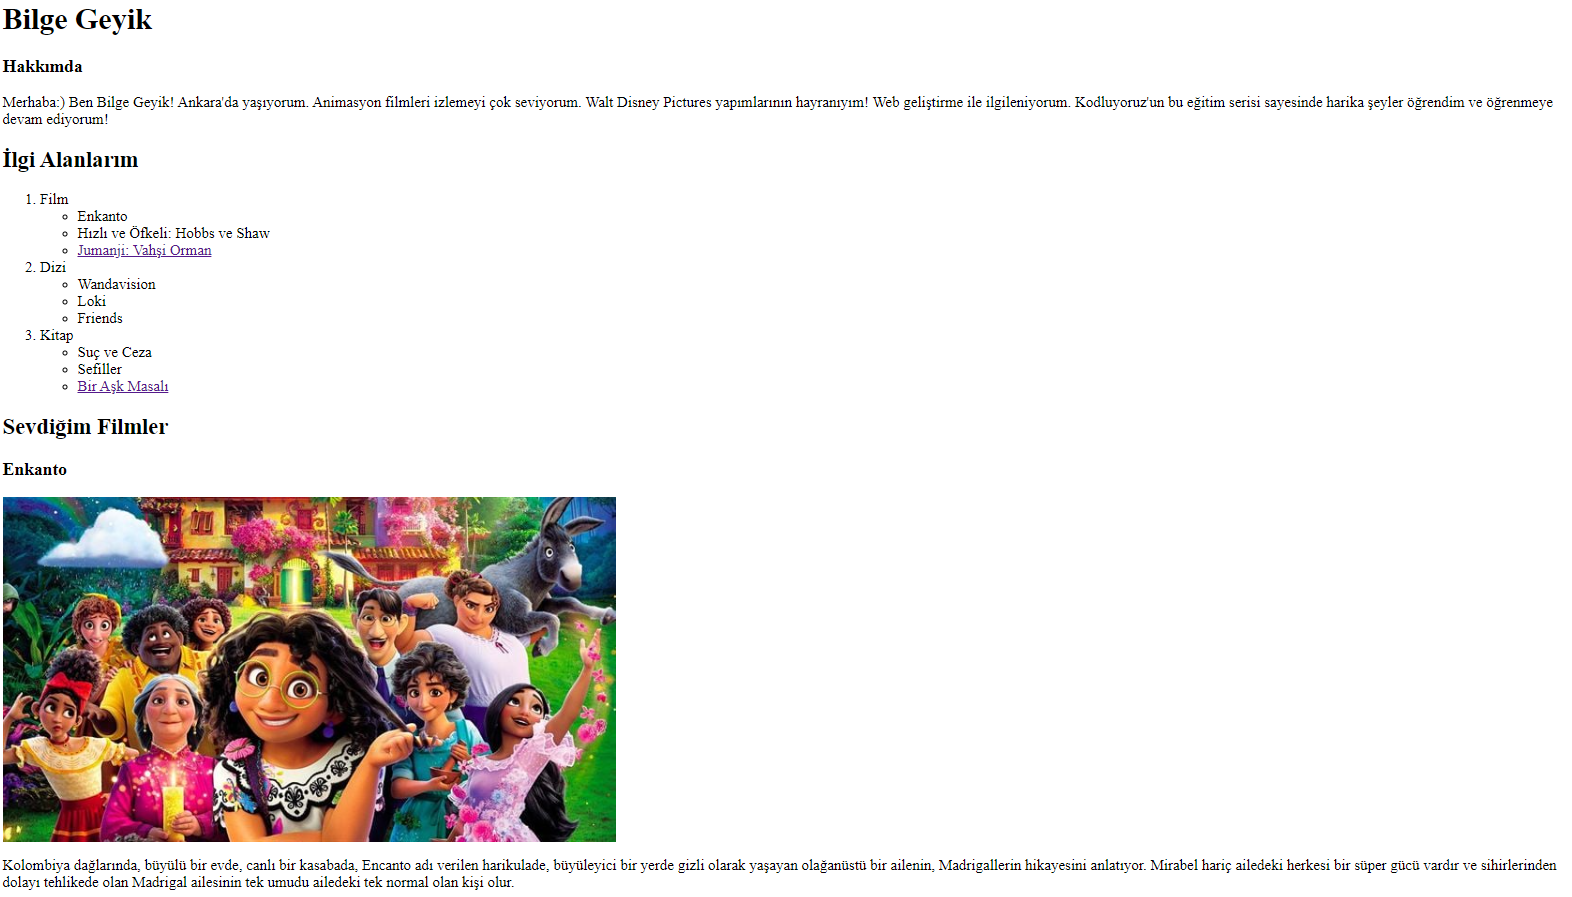
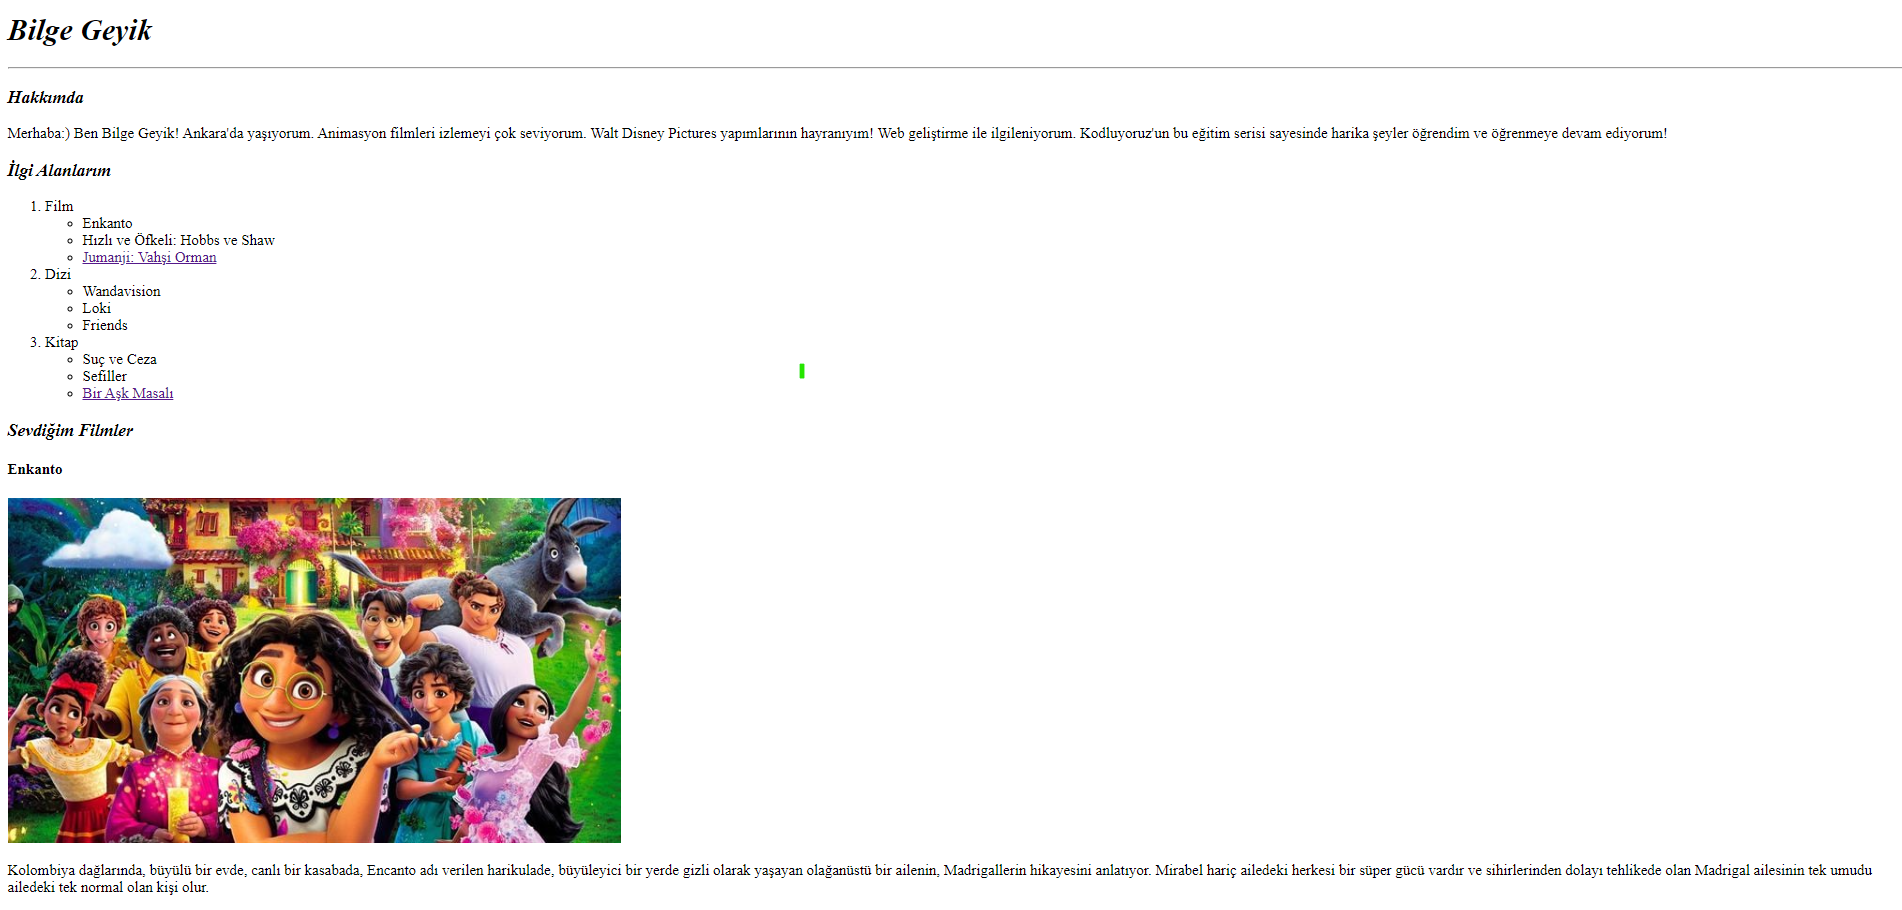
added block and inline in index.html for hw2

Changed region(s): [[0.0, 0.0, 0.9975, 0.9989]]

diff --git a/index.html b/index.html
@@ -1,31 +1,51 @@
-<h1>Bilge Geyik</h1>
-<h3>Hakkımda</h3>
-<p>Merhaba:) Ben Bilge Geyik! Ankara'da yaşıyorum. Animasyon filmleri izlemeyi çok seviyorum. Walt Disney Pictures yapımlarının hayranıyım! Web geliştirme ile ilgileniyorum. Kodluyoruz'un bu eğitim serisi sayesinde harika şeyler öğrendim ve öğrenmeye devam ediyorum!</p>
-<h2>İlgi Alanlarım</h2>
-<ol>
-    <li>Film
-        <ul>
-            <li>Enkanto</li>
-            <li>Hızlı ve Öfkeli: Hobbs ve Shaw</li>
-            <li><a href="https://www.imdb.com/title/tt2283362/" target="_blank">Jumanji: Vahşi Orman</a></li>
-        </ul>
-    </li>
-    <li>Dizi
-        <ul>
-            <li>Wandavision</li>
-            <li>Loki</li>
-            <li>Friends</li>
-        </ul>
-    </li>
-    <li>Kitap
-        <ul>
-            <li>Suç ve Ceza</li>
-            <li>Sefiller</li>
-            <li><a href="https://www.goodreads.com/book/show/62890217-bir-a-k-masal?from_search=true&from_srp=true&qid=2SKgi2ZqTQ&rank=1" target="_blank">Bir Aşk Masalı</a></li>
-        </ul>
-    </li>    
-</ol>
-<h2>Sevdiğim Filmler</h2>
-<h3>Enkanto</h3>
-<img src="https://tr.web.img4.acsta.net/r_654_368/newsv7/21/11/29/09/40/5439531.jpg" alt="enkanto">
-<p>Kolombiya dağlarında, büyülü bir evde, canlı bir kasabada, Encanto adı verilen harikulade, büyüleyici bir yerde gizli olarak yaşayan olağanüstü bir ailenin, Madrigallerin hikayesini anlatıyor. Mirabel hariç ailedeki herkesi bir süper gücü vardır ve sihirlerinden dolayı tehlikede olan Madrigal ailesinin tek umudu ailedeki tek normal olan kişi olur. </p>
+<!DOCTYPE html>
+<html lang="tr">
+<head>
+    <meta charset="UTF-8">
+    <meta name="viewport" content="width=device-width, initial-scale=1.0">
+    <title>Document</title>
+</head>
+<body>
+    
+</body>
+</html>
+<h1><em>Bilge Geyik</em></h1>
+<hr>
+<div>
+    <h3><strong><em>Hakkımda</em></strong></h3>
+    <p>Merhaba:) Ben Bilge Geyik! Ankara'da yaşıyorum. Animasyon filmleri izlemeyi çok seviyorum. Walt Disney Pictures yapımlarının hayranıyım! Web geliştirme ile ilgileniyorum. Kodluyoruz'un bu eğitim serisi sayesinde harika şeyler öğrendim ve öğrenmeye devam ediyorum!</p>
+</div>
+
+<div>
+    <h3><strong><em>İlgi Alanlarım</em></strong></h2>
+    <ol>
+        <li>Film
+            <ul>
+                <li>Enkanto</li>
+                <li>Hızlı ve Öfkeli: Hobbs ve Shaw</li>
+                <li><a href="https://www.imdb.com/title/tt2283362/" target="_blank">Jumanji: Vahşi Orman</a></li>
+            </ul>
+        </li>
+        <li>Dizi
+            <ul>
+                <li>Wandavision</li>
+                <li>Loki</li>
+                <li>Friends</li>
+            </ul>
+        </li>
+        <li>Kitap
+            <ul>
+                <li>Suç ve Ceza</li>
+                <li>Sefiller</li>
+                <li><a href="https://www.goodreads.com/book/show/62890217-bir-a-k-masal?from_search=true&from_srp=true&qid=2SKgi2ZqTQ&rank=1" target="_blank">Bir Aşk Masalı</a></li>
+            </ul>
+        </li>    
+    </ol>
+</div>
+
+<div>
+    <h3><strong><em>Sevdiğim Filmler</em></strong></h2>
+    <h4>Enkanto</h3>
+    <img src="https://tr.web.img4.acsta.net/r_654_368/newsv7/21/11/29/09/40/5439531.jpg" alt="enkanto">
+    <p>Kolombiya dağlarında, büyülü bir evde, canlı bir kasabada, Encanto adı verilen harikulade, büyüleyici bir yerde gizli olarak yaşayan olağanüstü bir ailenin, Madrigallerin hikayesini anlatıyor. Mirabel hariç ailedeki herkesi bir süper gücü vardır ve sihirlerinden dolayı tehlikede olan Madrigal ailesinin tek umudu ailedeki tek normal olan kişi olur. </p>
+</div>
